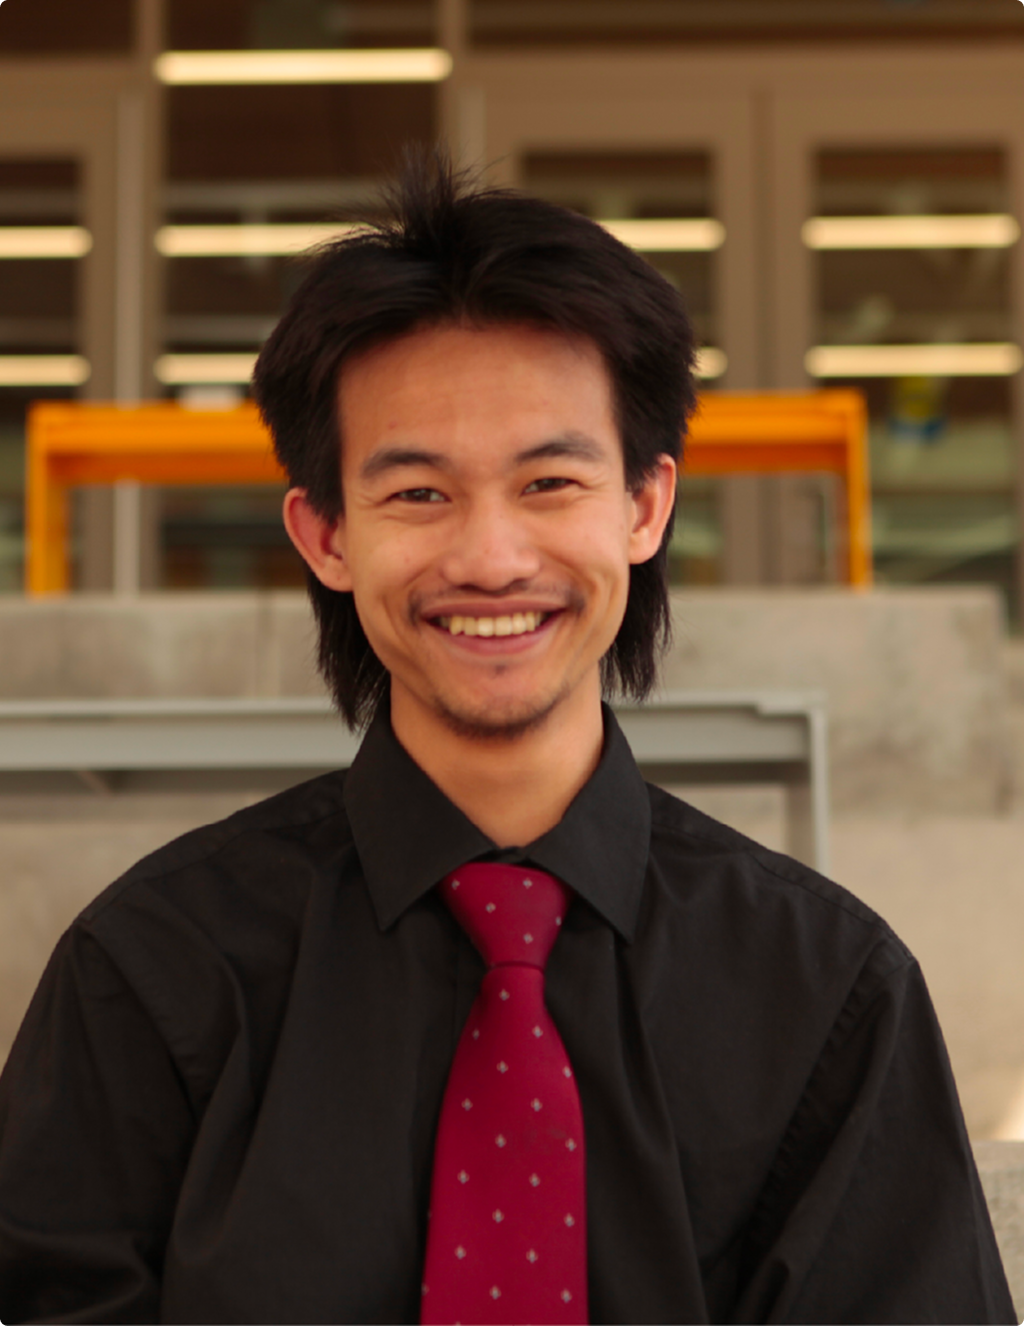
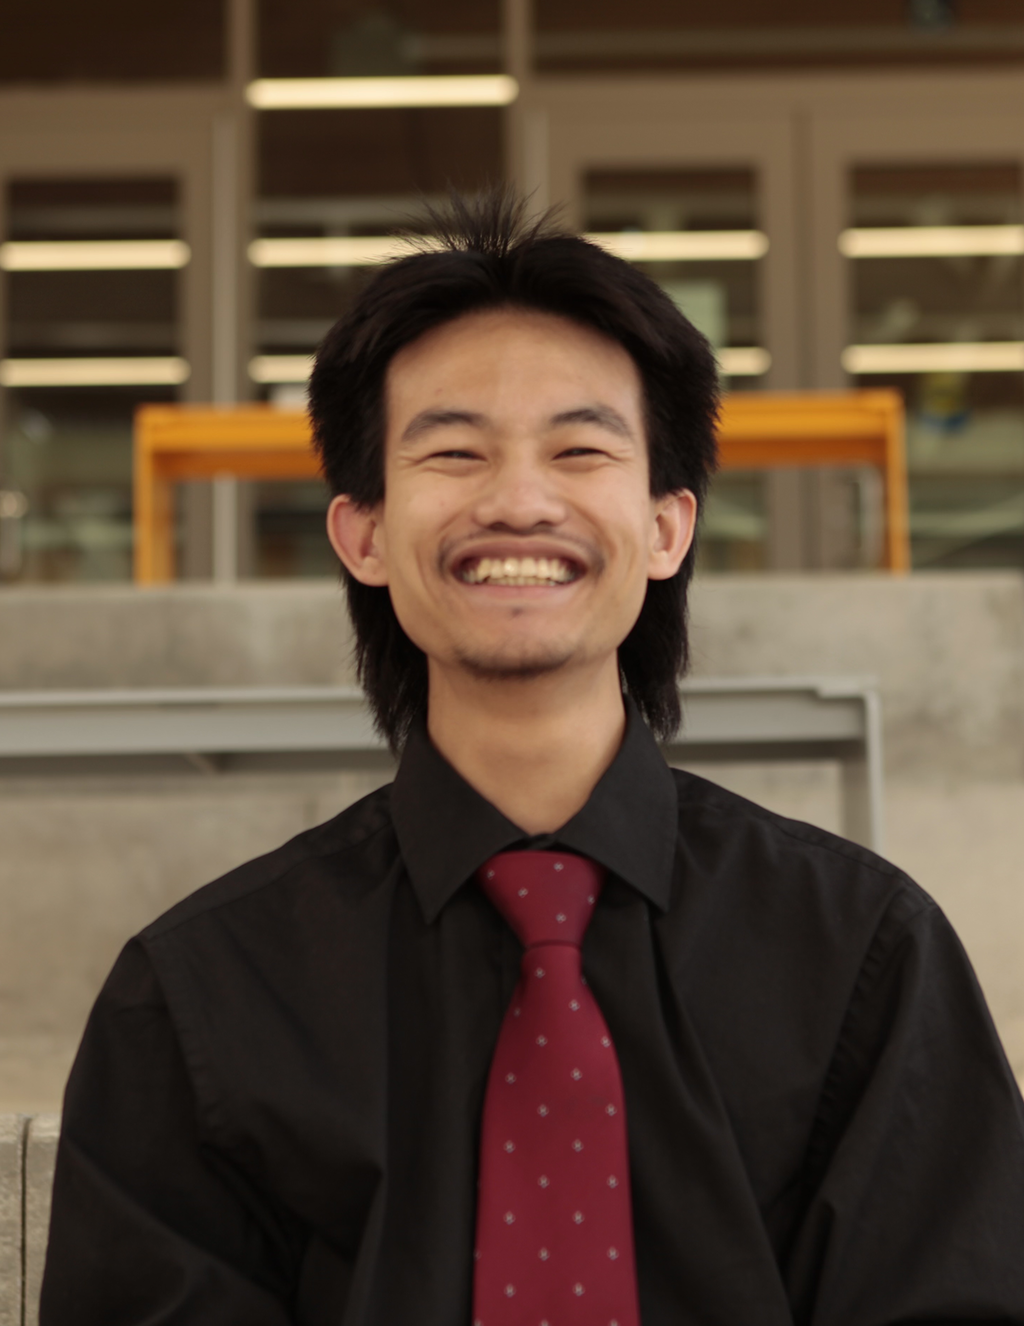
feat: richie and giang (#79)

diff --git a/src/app/components/what-we-offer/what-we-offer.stories.ts b/src/app/components/what-we-offer/what-we-offer.stories.ts
@@ -50,14 +50,14 @@ export const Primary: Story = {
           'ATD offers mentorships, hands-on experience, and learning opportunities to help sharpen your skills and grow professionally. By working alongside diverse team members, you will gain expertise needed to succeed ad build a strong foundation for your future career.',
       },
       {
-        title: 'Student-Client Experience',
+        title: 'Member-Client Experience',
         description:
-          'ATD gives students the opportunity to work with real clients and gain hands-on experience. We offer entry-level positions with no prior experience required. Our goal is to help you build your portfolio, improve communication with clients, and work with a cross-functional team.',
+          'ATD gives members the opportunity to work with real clients and gain hands-on experience. We offer entry-level positions with no prior experience required. Our goal is to help you build your portfolio, improve communication with clients, and work with a cross-functional team.',
       },
       {
         title: 'Networking ',
         description:
-          'As a student, you will have the chance to connect with other members of ATD as well as with clients. Through events, collaborations, and client interactions, we help you build valuable relationships that open doors and lead to new opportunities in your career.',
+          'As a member, you will have the chance to connect with other members of ATD as well as with clients. Through events, collaborations, and client interactions, we help you build valuable relationships that open doors and lead to new opportunities in your career.',
       },
     ],
   },

diff --git a/src/app/components/info-section/info-section.component.ts b/src/app/components/info-section/info-section.component.ts
@@ -12,16 +12,16 @@ export class InfoSectionComponent {
     title: 'Mission',
     image: '/icons/target.svg',
     details: [
-      'To contribute exceptional pro-bono design to all clients.',
-      'To strengthen the design community at UC Davis by bringing all disciplines together as a unified community.',
-      'To build an exceptional professional network for students to gain client-based design experience.',
+      'To contribute budget-friendly design to all clients.',
+      'To strengthen the design community in Davis by bringing all disciplines together as a unified community.',
+      'To build an exceptional professional network for members to gain client-based design experience.',
     ],
   };
   vision: any = {
     title: 'Vision',
     image: '/icons/vision.svg',
     details: [
-      'Our vision is to build a home where students can grow, flourish and discover anything they put their minds to.',
+      'Our vision is to build a home where members can grow, flourish, and discover anything they put their minds to.',
     ],
   };
 }

diff --git a/src/app/components/info-card/info-card.stories.ts b/src/app/components/info-card/info-card.stories.ts
@@ -15,9 +15,9 @@ export const Primary: Story = {
     title: 'Mission',
     image: '/icons/target.svg',
     details: [
-      'To contribute exceptional pro-bono design to all clients.',
-      'To strengthen the design community at UC Davis by bringing all disciplines together as a unified community.',
-      'To build an exceptional professional network for students to gain client-based design experience.',
+      'To contribute exceptional budget-friendly design to all clients.',
+      'To strengthen the design community in Davis by bringing all disciplines together as a unified community.',
+      'To build an exceptional professional network for members to gain client-based design experience.',
     ],
   },
 };

diff --git a/src/app/components/join-us-header/join-us-header.component.html b/src/app/components/join-us-header/join-us-header.component.html
@@ -1,8 +1,8 @@
 <div class="container">
     <div class="title">Join Us</div>
     <div class="body">
-        We are a team that visions to be the largest student centric - club on campus. 
-        We want to build a home where students can grow, flourish and discover anything they 
+        We are a team that visions to be the premier design agency based in Davis, CA. 
+        We want to build a home where designers can grow, flourish, and discover anything they 
         put their minds to.
     </div>
 </div>

diff --git a/src/app/components/toggle-button/toggle-button.component.html b/src/app/components/toggle-button/toggle-button.component.html
@@ -1,5 +1,5 @@
 <section class="toggle-switch" [class.students]="selected === 'students'">
   <button (click)="select('clients')" [class.selected]="selected === 'clients'">For Clients</button>
-  <button (click)="select('students')" [class.selected]="selected === 'students'">For Students</button>
+  <button (click)="select('students')" [class.selected]="selected === 'students'">For Designers</button>
   <div class="highlight"></div>
 </section>

diff --git a/src/app/components/navbar/navbar.component.html b/src/app/components/navbar/navbar.component.html
@@ -39,6 +39,7 @@
   [textColor]="isJoinUsActive ? 'white' : '#0ABAB5'"
   [isActive]="isJoinUsActive"
   borderColor="#0ABAB5"
+  class="join-us-button"
       (click)="toggleJoinUs()"
     ></app-button>
   </div>
@@ -84,6 +85,7 @@
   [textColor]="isJoinUsActive ? 'white' : '#0ABAB5'"
   [isActive]="isJoinUsActive"
   borderColor="#0ABAB5"
+  class="join-us-button"
         (click)="toggleJoinUs()"
       ></app-button>
     </div>

diff --git a/src/app/components/definition-box/definition-box.component.html b/src/app/components/definition-box/definition-box.component.html
@@ -19,7 +19,7 @@
   <div class="bottom-row">
     <div class="definition-box">
       <p class="definition">
-        "A student-led creative agency at <span class="uc-davis">UC Davis,</span
+        "A student-led creative agency based in <span class="uc-davis">Davis, CA,</span
         ><br class="mobile-break" />
         specializing in
         <span class="after-in">multi-disciplinary design."</span>

diff --git a/src/app/components/about-us-header/about-us-header.component.html b/src/app/components/about-us-header/about-us-header.component.html
@@ -2,7 +2,7 @@
   <div class="title">About Us</div>
   <div class="logo"><img src="/logos/logo-black.svg" alt="Logo" /></div>
   <div class="mission">
-    We are a student-led creative agency at UC Davis, specializing in <br />
+    We are a student-led creative agency based in Davis, specializing in <br />
     multi-disciplinary design.
   </div>
 </div>

diff --git a/src/app/components/button/button.component.scss b/src/app/components/button/button.component.scss
@@ -10,7 +10,8 @@
 
   border-radius: 32px;
   font-size: $font-size-sm;
-  font-weight: $font-weight-semibold;
+  // Allow parent components to override font weight via CSS custom property
+  font-weight: var(--btn-font-weight, $font-weight-semibold); // changed
   font-family: $font-primary;
 
   transition: all 0.3s ease;

diff --git a/src/app/components/offer-card/offer-card.component.scss b/src/app/components/offer-card/offer-card.component.scss
@@ -41,6 +41,7 @@
   font-weight: $font-weight-regular;
   font-size: clamp($font-size-xxs, 1.5vw, $font-size-xs); // Responsive font size
   width: clamp(16rem, 22vw, 22rem); // Responsive width
+  line-height: 1.6;
 
   @include respond-to('tablet') {
     width: clamp(14rem, 20vw, 18rem);

diff --git a/src/app/components/footer/footer.component.html b/src/app/components/footer/footer.component.html
@@ -31,7 +31,7 @@
     </div>
   </div>
   <div class="footer-bottom">
-    <p class="copyright">©All Things Design. All Rights Reserved.</p>
+    <p class="copyright">© 2025 All Things Design. All Rights Reserved.</p>
     <div class="credit">
       <span>Site by </span>
       <a

diff --git a/src/app/components/navbar/navbar.component.scss b/src/app/components/navbar/navbar.component.scss
@@ -200,3 +200,8 @@
     min-width: 200px;
   }
 }
+
+.join-us-button { // changed
+  // Provide bold font weight to nested app-button via CSS variable consumed in button.component.scss
+  --btn-font-weight: $font-weight-bold; // changed
+}
